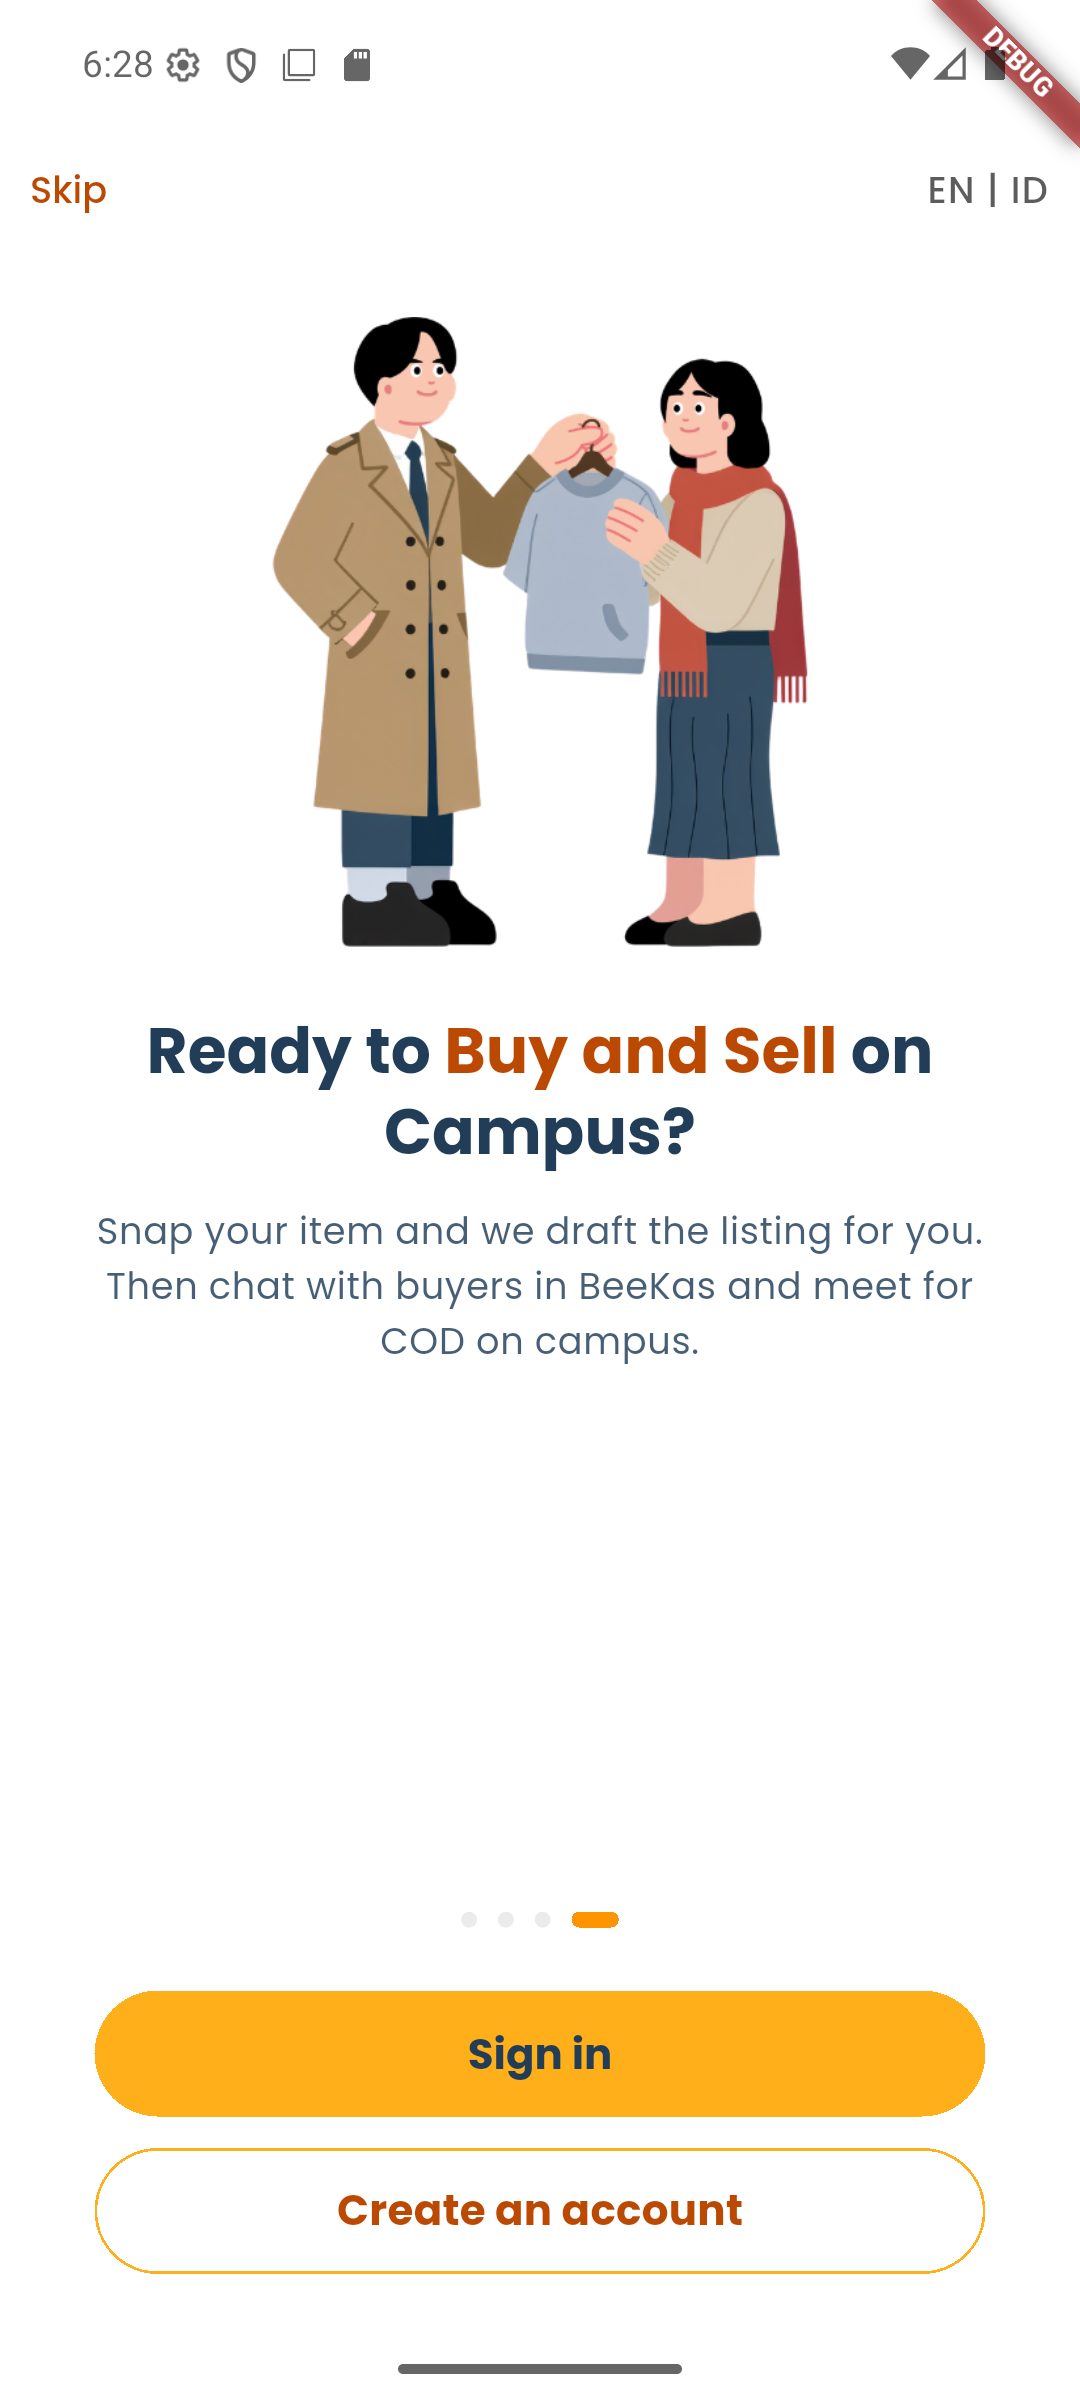
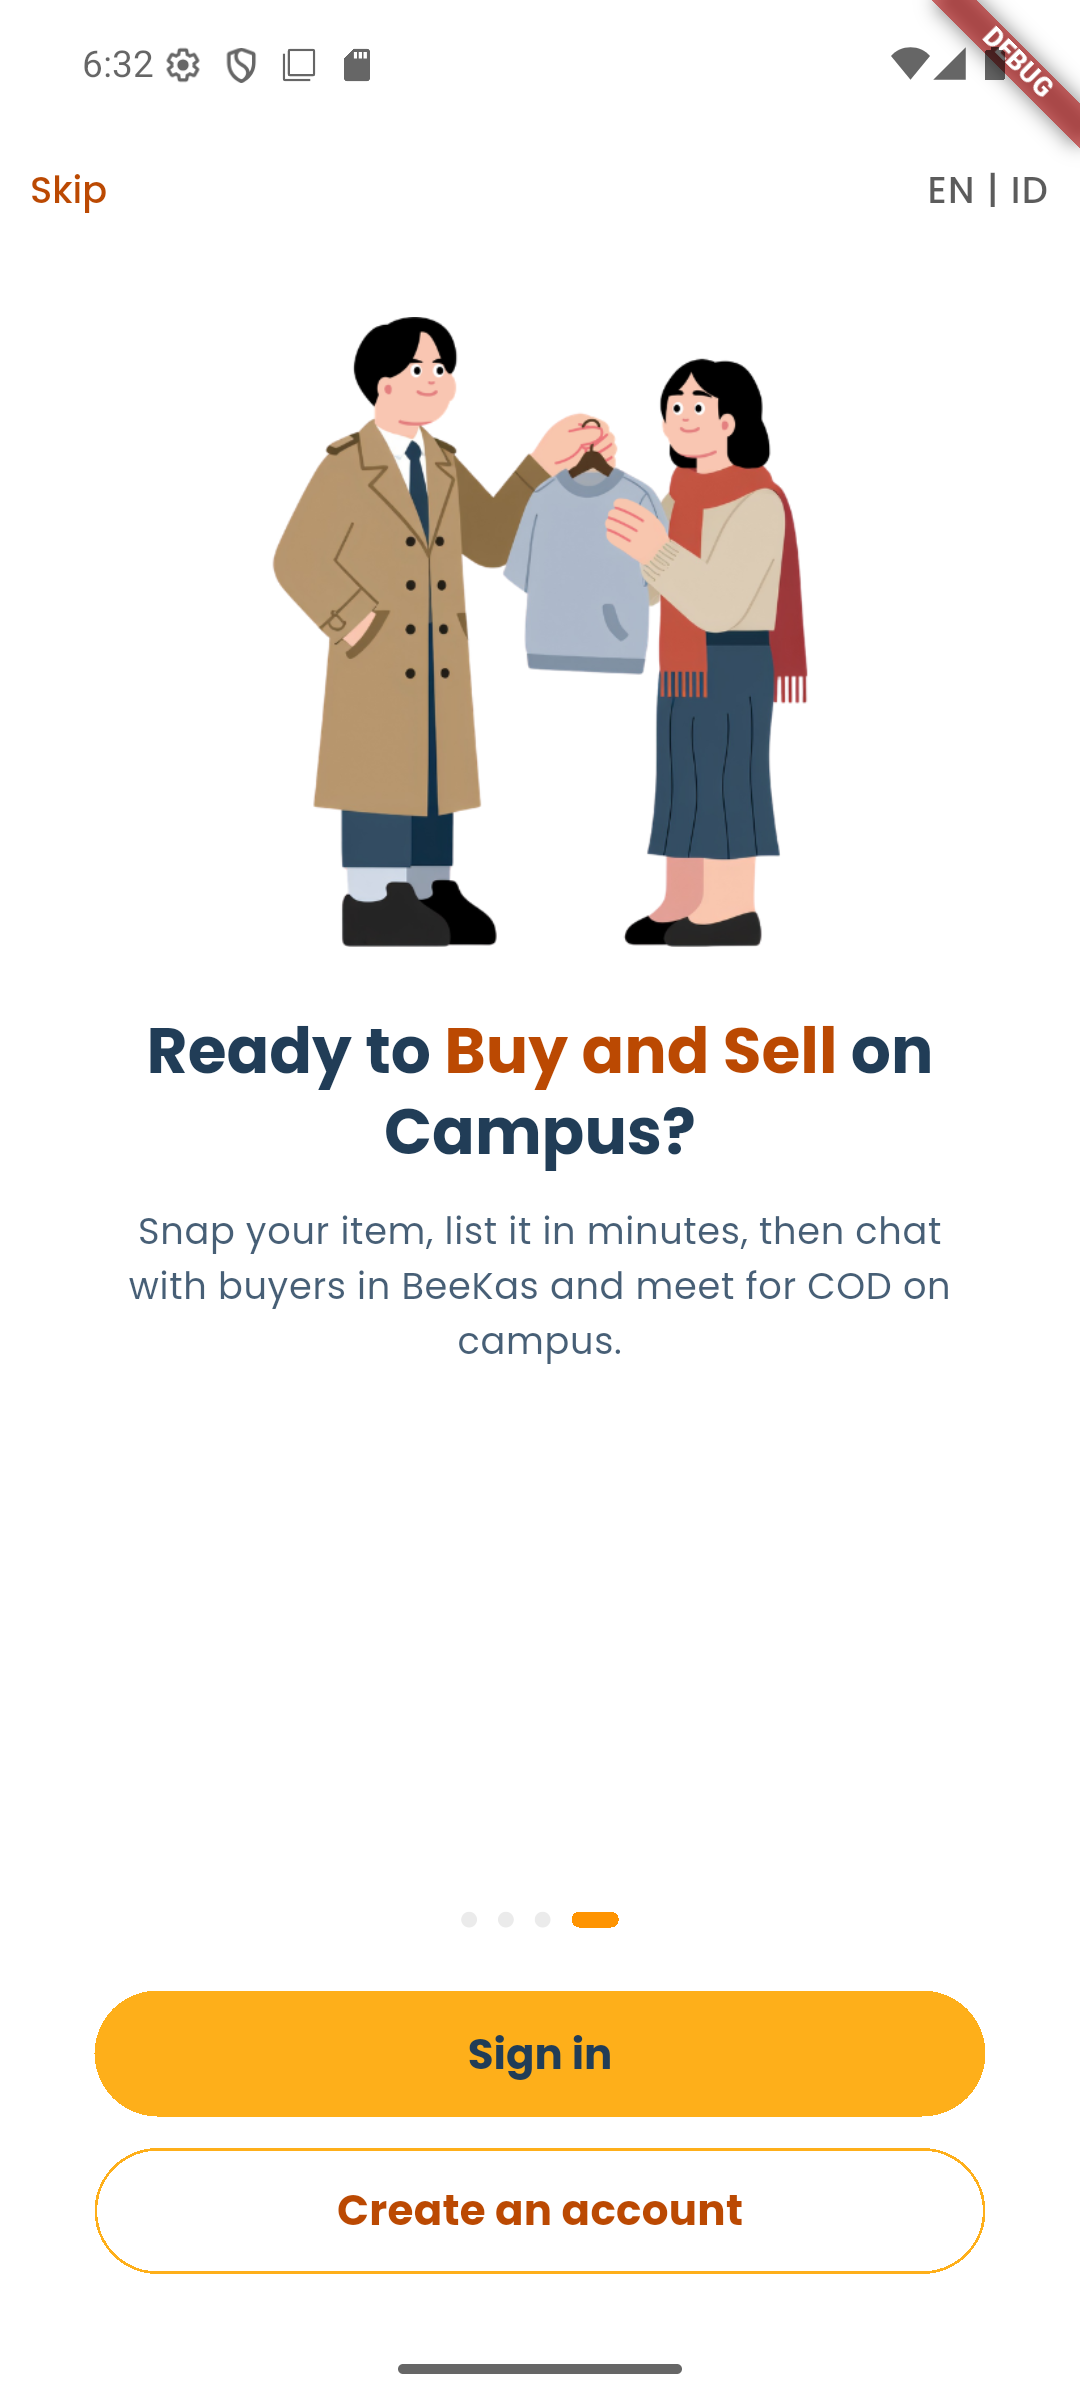
fix: Teks Onboarding-4 tanpa draf listing otomatis (#54)
Fitur draf listing otomatis belum diputuskan. Screenshot Onboarding-4
diperbarui.

Changed region(s): [[0.0917, 0.5, 0.8861, 0.5625]]

diff --git a/lib/config/copy.dart b/lib/config/copy.dart
@@ -172,7 +172,7 @@ const copy = <Lang, Map<String, String>>{
     'onboarding4Pre': 'Ready to ',
     'onboarding4Mark': 'Buy and Sell',
     'onboarding4Post': ' on Campus?',
-    'onboarding4Body': 'Snap your item and we draft the listing for you. Then chat with buyers in BeeKas and meet for COD on campus.',
+    'onboarding4Body': 'Snap your item, list it in minutes, then chat with buyers in BeeKas and meet for COD on campus.',
     'signInTitle': 'Welcome to ',
     'signInTitleEnd': '!',
     'signInSubtitle': 'Sign in to continue to the BINUS community marketplace.',
@@ -605,7 +605,7 @@ Changes to these terms are announced in the app. These terms are governed by the
     'onboarding4Mark': 'Jual Beli',
     'onboarding4Post': ' di Kampus?',
     // D-22 point 2: chat in the app, not WhatsApp.
-    'onboarding4Body': 'Foto barangmu, sistem buat draf listing otomatis, lalu ngobrol dengan pembeli lewat chat BeeKas dan ketemuan COD di kampus.',
+    'onboarding4Body': 'Foto barangmu, pasang dalam hitungan menit, lalu ngobrol dengan pembeli lewat chat BeeKas dan ketemuan COD di kampus.',
     'signInTitle': 'Selamat Datang di ',
     'signInTitleEnd': '!',
     'signInSubtitle': 'Masuk untuk melanjutkan ke marketplace komunitas BINUS.',

diff --git a/test/screens/onboarding_screen_test.dart b/test/screens/onboarding_screen_test.dart
@@ -42,7 +42,11 @@ void main() {
       await tester.pumpAndSettle();
     }
     expect(find.text(t('onboarding4Body')), findsOneWidget);
-    expect(t('onboarding4Body'), isNot(contains('WhatsApp')));
+    expect(
+      t('onboarding4Body'),
+      'Snap your item, list it in minutes, then chat with buyers in BeeKas '
+      'and meet for COD on campus.',
+    );
 
     await tester.tap(find.text(t('skip')));
     await tester.tap(find.text(t('signIn')));
